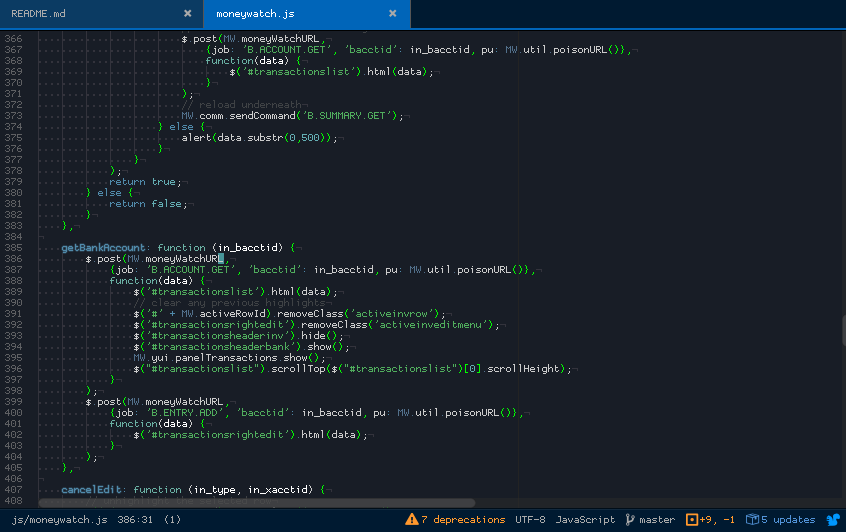
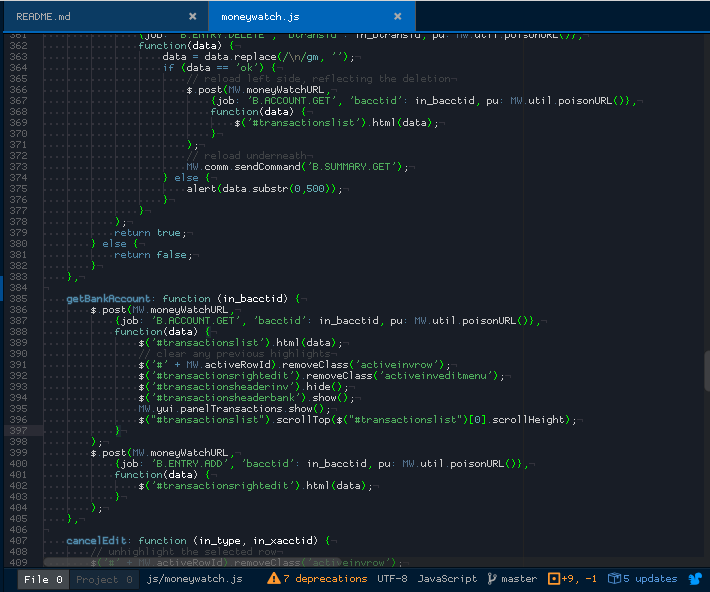
add screenshot that won't scale

diff --git a/README.md b/README.md
@@ -6,5 +6,5 @@ A dark syntax theme for Atom
 The theme is based on Azure, but modeled to look similar to Komodo's BlueWater theme.
 
 
-She's pretty
+She's pretty, but don't let it go to her head...
 ![Bluzie - Screenshot](https://raw.githubusercontent.com/jamesottinger/Bluzie/master/bluzie-screenshot.png)
